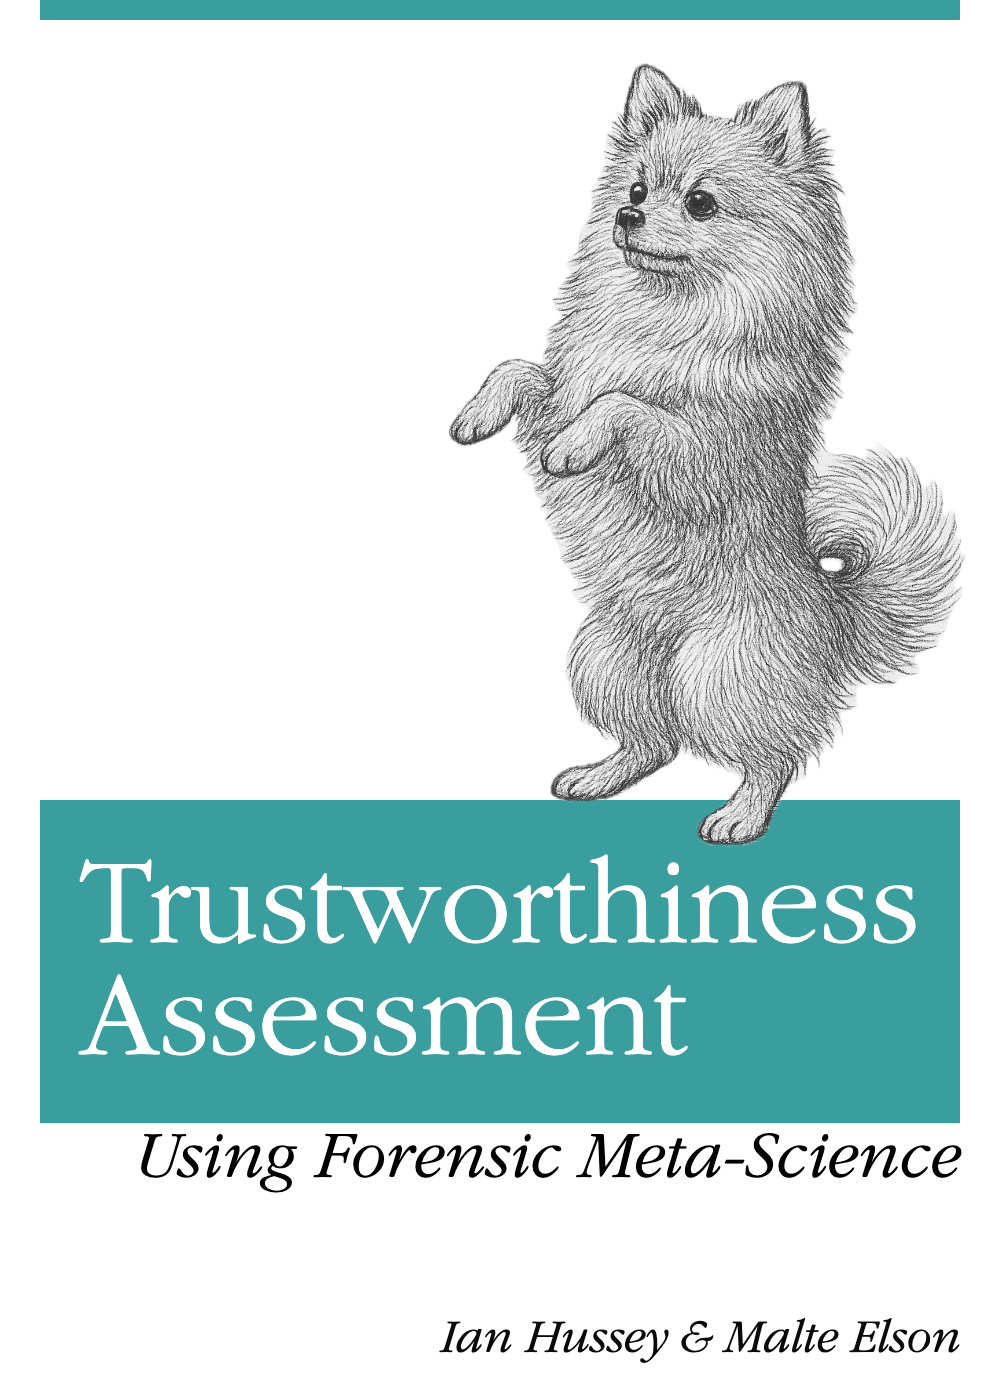
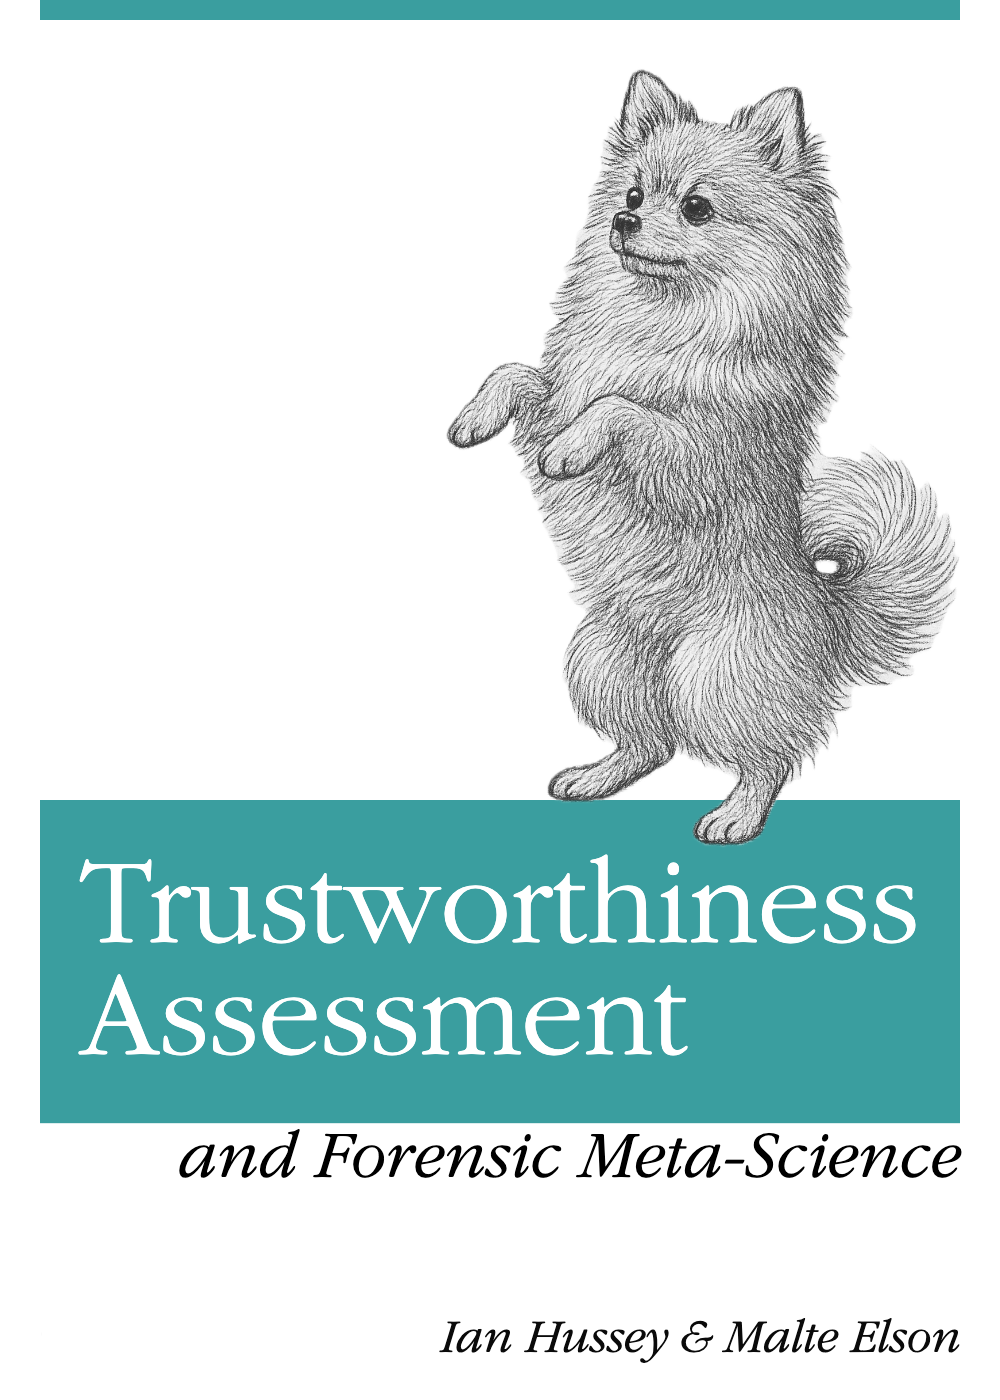
renamed

Changed region(s): [[0.434, 0.0307, 0.961, 0.6143], [0.124, 0.7986, 0.31, 0.86]]

diff --git a/README.md b/README.md
@@ -1,3 +1,3 @@
-# Trustworthiness Assessment: A forensic meta-science approach
+# Trustworthiness Assessment and forensic meta-science
 
-eBook here: https://ianhussey.quarto.pub/trustworthiness-assessment/
+eBook here: https://trustworthyresear.ch 
